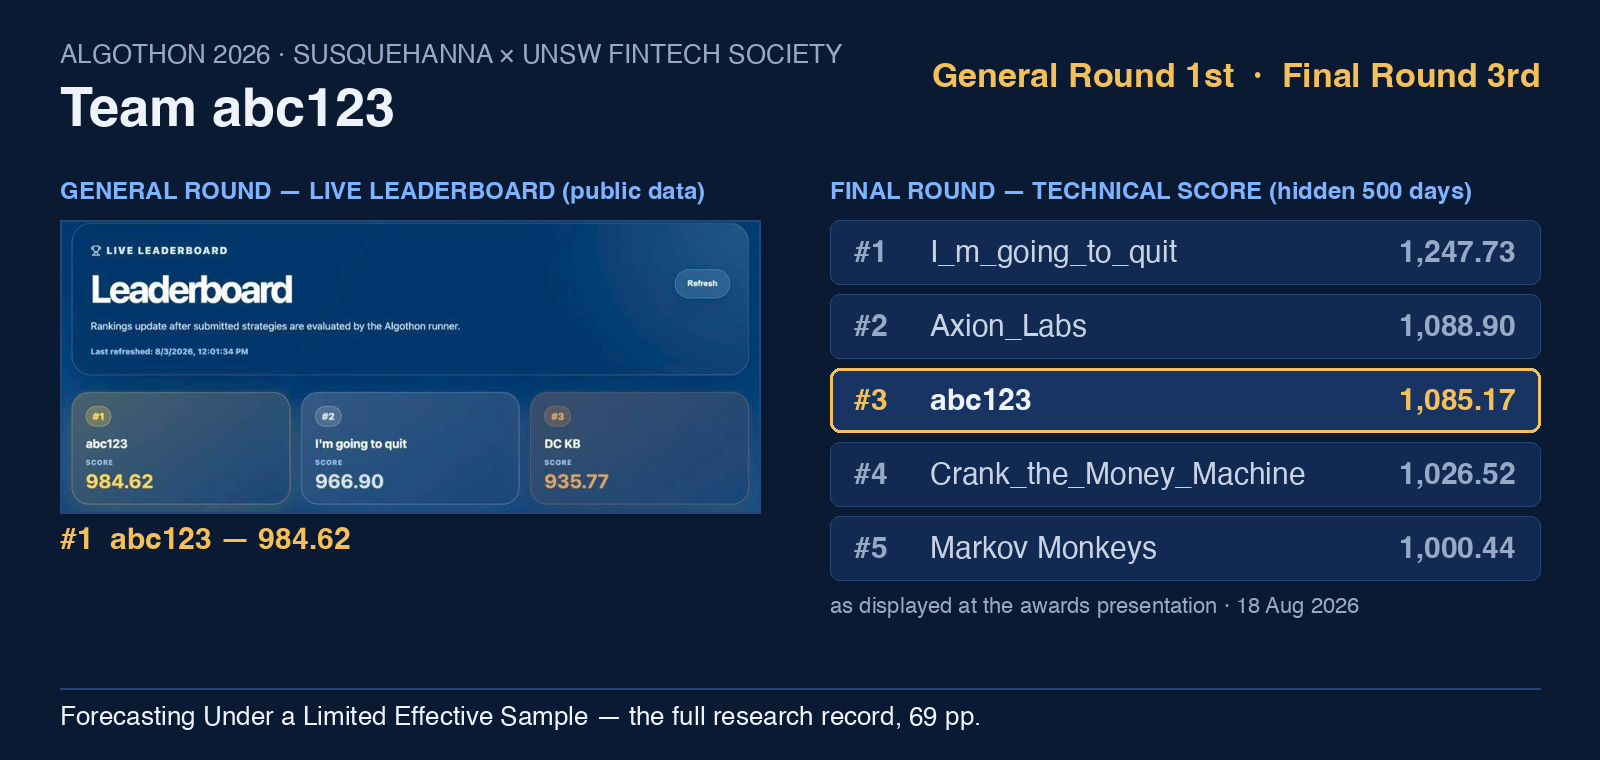
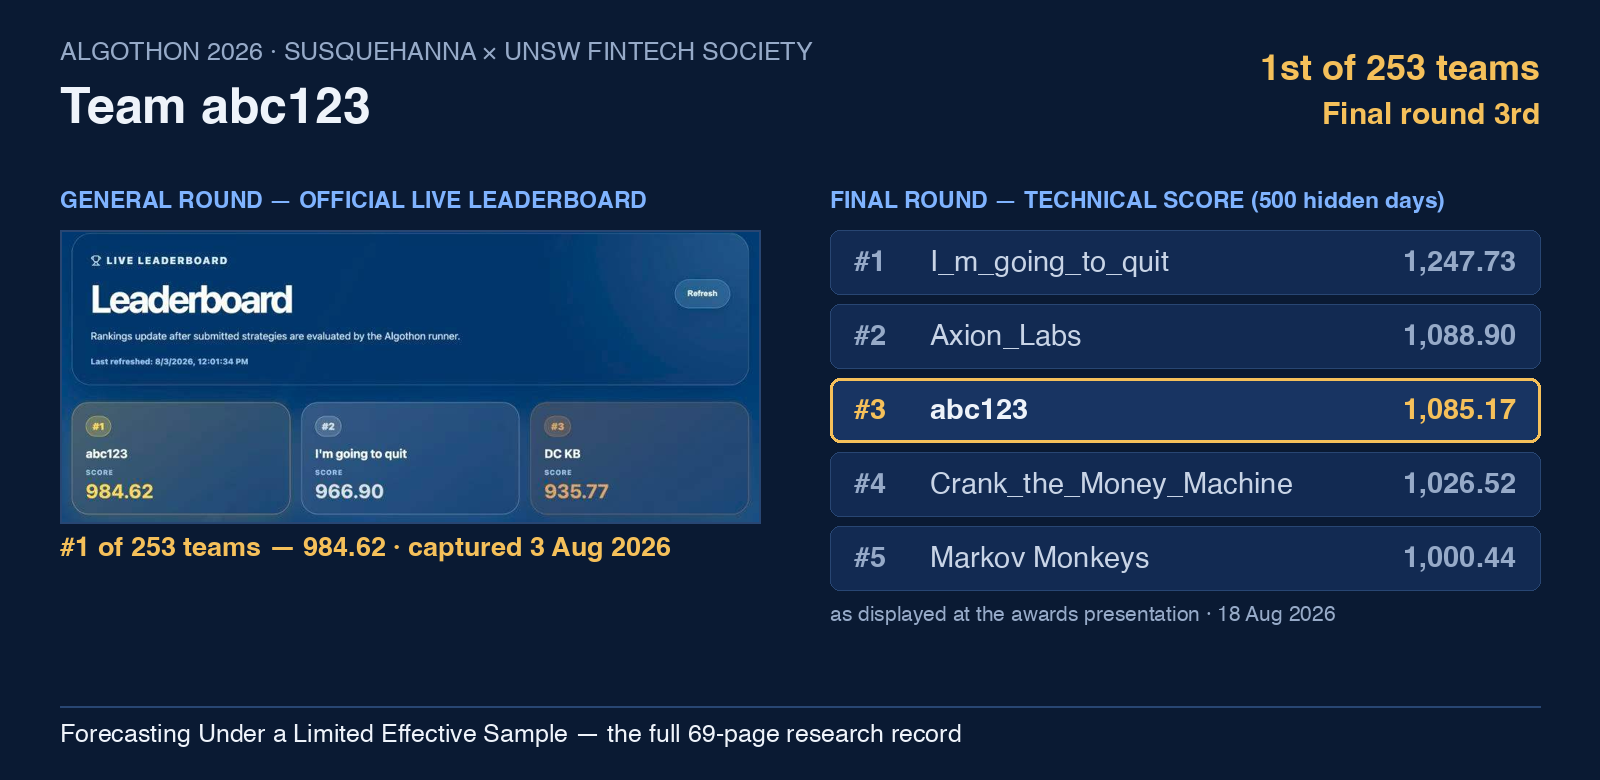
Add team-count denominator (253) and refreshed results cover

diff --git a/README.md b/README.md
@@ -55,7 +55,7 @@ The strategies run against the official evaluation harness in the
 [algothon26-starter-code](https://github.com/UNSW-FinTech-Society-IT/algothon26-starter-code)
 repository (`eval.py`, entry point `getMyPosition(prcSoFar)`).
 
-A note the report itself insists on: the 984.62 that held 1st on the
+A note the report itself insists on: the 984.62 that held 1st of 253 teams on the
 General-round leaderboard belongs to the predecessor engine. The Final-round
 submission was a simpler engine chosen on structure rather than score — the
 report's §19–20 record why, and its postscript records how that choice fared
